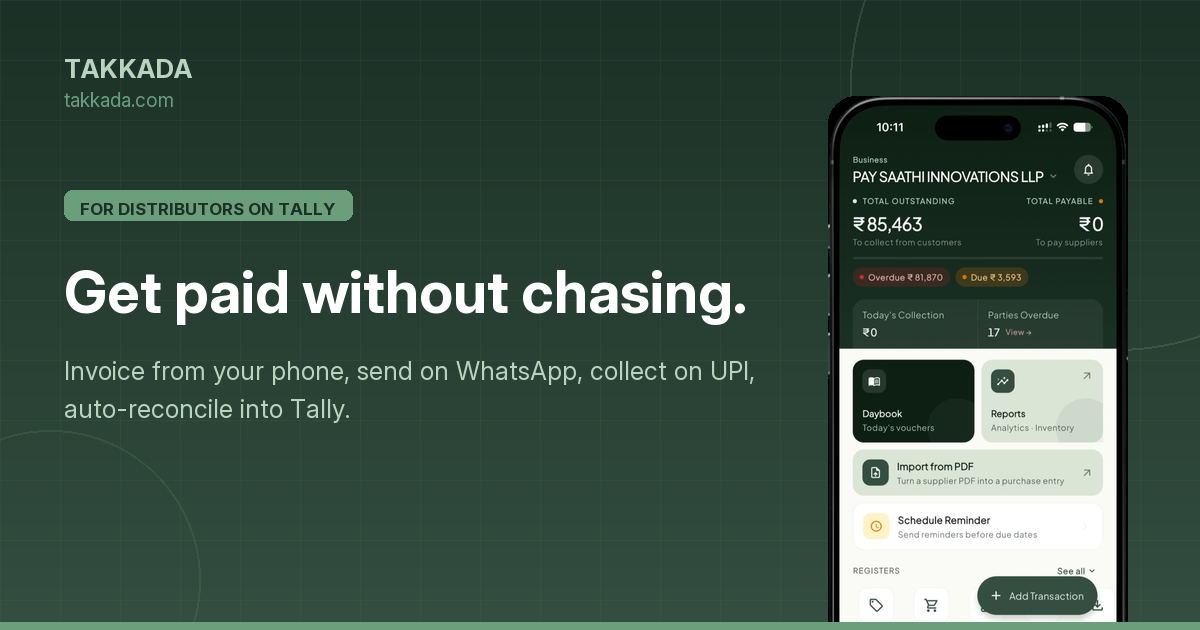
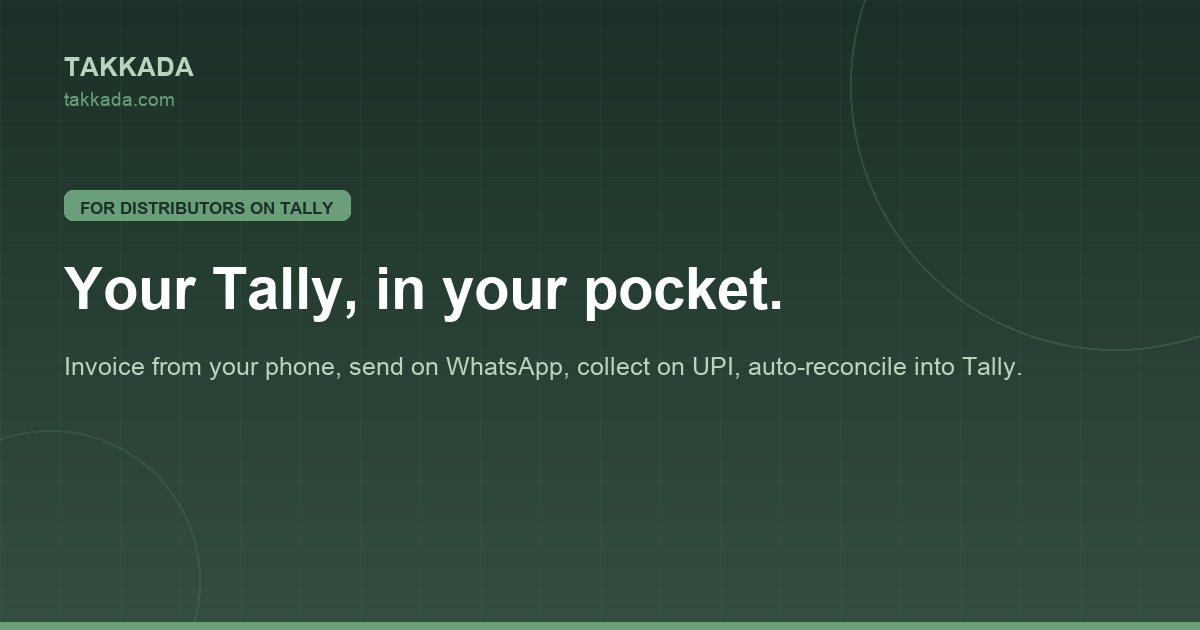
content: retire the chasing/collecting taglines
Replace "Get paid without chasing", "Stop chasing. Start collecting.",
"Get Paid On Time. Automatically." and the other get-paid slogans across
the homepage, footer, blog index, About description and the default OG
card. CLAUDE.md now names "Tally On Mobile" as the site story and records
the retirement so the old lines do not come back.

diff --git a/src/data/siteContent.js b/src/data/siteContent.js
@@ -49,7 +49,7 @@ export const heroContent = {
   overline: 'For Indian distributors on Tally',
   // The H1 and body are owned by src/data/heroHotspots.js (HERO_HOME) because
   // they swap as the visitor taps the phone. This object keeps what is static.
-  promise: 'Get paid without chasing.',
+  promise: 'Built on top of your Tally.',
   // The one founder-confirmed public scale figure (CLAUDE.md \u00A75). The monthly
   // rupee volume was retired on 2026-09-18 (operator direction) and
   // scripts/checkRetiredClaims.mjs keeps it out of the build.
@@ -210,7 +210,7 @@ export const proofStrip = {
 export const differentiators = {
   id: 'why-takkada',
   overline: 'Where The Others Stop',
-  heading: 'Plenty of apps show you Tally on a phone. The chasing stays yours.',
+  heading: 'Plenty of apps show you Tally on a phone. The work after the invoice stays yours.',
   intro:
     'The common pattern stops when the invoice PDF lands on your screen. Everything after that, the sending, the collecting, the matching, is still your evening. Here is where Takkada keeps going.',
   rows: [

diff --git a/src/routes/Home.jsx b/src/routes/Home.jsx
@@ -467,11 +467,7 @@ function Home({ seo = HOME_SEO }) {
       <section className="final-cta" id="final-cta">
         <div className="container">
           <div className="final-cta-content">
-            <h2>
-              Stop chasing.
-              <br />
-              Start collecting.
-            </h2>
+            <h2>See your own Tally on the phone.</h2>
             {/* The onboarding-speed line ships behind the operator eyeball
                 (open question 2 in the 2026-08-06 plan): KYC ~24h and
                 same-day Tally connect mirror the long-standing FAQ claim,

diff --git a/src/routes/BlogIndex.jsx b/src/routes/BlogIndex.jsx
@@ -62,7 +62,7 @@ function BlogIndex() {
         <section className="blog-index-hero">
           <div className="container">
             <p className="overline">TAKKADA BLOG</p>
-            <h1 className="blog-index-title">For distributors who want to get paid faster</h1>
+            <h1 className="blog-index-title">Notes for distributors who run on Tally</h1>
             <p className="blog-index-subtitle">
               Practical notes on receivables, Tally workflows, and running a tighter collections operation.
             </p>

diff --git a/src/routes/AboutUs.jsx b/src/routes/AboutUs.jsx
@@ -9,7 +9,7 @@ function AboutUs() {
     <CompanyPageLayout>
       <Seo
         title="About Takkada. Built for Indian distributors on Tally"
-        description={`Takkada is built by ${contactInfo.company} in Guwahati. We help Indian distributors and wholesalers collect receivables without chasing.`}
+        description={`Takkada is built by ${contactInfo.company} in Guwahati. We help Indian distributors and wholesalers run their Tally from the phone.`}
         path="/about-us"
         schemas={[
           breadcrumbSchema([

diff --git a/src/Layout.jsx b/src/Layout.jsx
@@ -442,7 +442,7 @@ function SiteFooter() {
                 loading="lazy"
               />
             </Link>
-            <p className="footer-tagline">Get Paid On Time. Automatically.</p>
+            <p className="footer-tagline">Your Tally, in your pocket.</p>
             <p className="footer-company">{contactInfo.company}</p>
             <p className="footer-contact tabular-nums">{contactInfo.phone}</p>
             <p className="footer-contact">{contactInfo.email}</p>

diff --git a/scripts/generate-og-cards.py b/scripts/generate-og-cards.py
@@ -160,7 +160,7 @@ CARDS = [
     {
         "filename": "takkada-og-default.png",
         "kicker": "For distributors on Tally",
-        "title": "Get paid without chasing.",
+        "title": "Your Tally, in your pocket.",
         "tagline": "Invoice from your phone, send on WhatsApp, collect on UPI, auto-reconcile into Tally.",
         "screenshot": "public/assets/screenshots/home-screen.png",
     },

diff --git a/CLAUDE.md b/CLAUDE.md
@@ -4,7 +4,7 @@ This file provides guidance to Claude Code (claude.ai/code) when working with co
 
 ## 1. Product one-liner
 
-Takkada is a mobile-first SaaS layer for Tally that helps Indian distributors and wholesalers get paid without chasing customers. It sits on top of the distributor's existing Tally installation and adds mobile invoicing (including e-invoice and e-way bill), auto invoice dispatch on WhatsApp, UPI payment collection, and auto-reconciliation back into Tally.
+Takkada is Tally on your phone: reports, overdue reminders and salesman tracking for distributors. It sits on top of the distributor's existing Tally installation and adds mobile invoicing (including e-invoice and e-way bill), auto invoice dispatch on WhatsApp, UPI payment collection, and auto-reconciliation back into Tally.
 
 ## 2. Primary ICP
 
@@ -194,7 +194,7 @@ The craft bar is borrowed, with modification, from Stripe's website redesign pri
 
 Eleven craft commandments. Every component Claude Code writes must satisfy these, or the work is incomplete:
 
-1. **One coherent story, not a product snapshot list.** The site tells one story: "Get paid without chasing." Every page reinforces this. If a section feels like a feature dump, it's wrong. Rewrite to show the specific behavior that changes for the distributor. The reader should never feel like they're reading a product catalogue.
+1. **One coherent story, not a product snapshot list.** The site tells one story: "Tally On Mobile." Every page reinforces this. The chasing/collecting taglines ("Get paid without chasing", "Stop chasing. Start collecting.", "Get Paid On Time. Automatically.") were retired on 2026-10-26 (operator direction) and must not return. If a section feels like a feature dump, it's wrong. Rewrite to show the specific behavior that changes for the distributor. The reader should never feel like they're reading a product catalogue.
 
 2. **Progressive disclosure over long scrolls.** Modular sections (think "bento box") with depth available to those who want it. A section summarizes in two lines and offers "see how this works" for the curious. Users in "lean-back" discovery mode must not be punished with a 4000-word landing page. If a section exceeds 300 words of body copy, it splits into a summary and an expandable or linked detail view.
 
